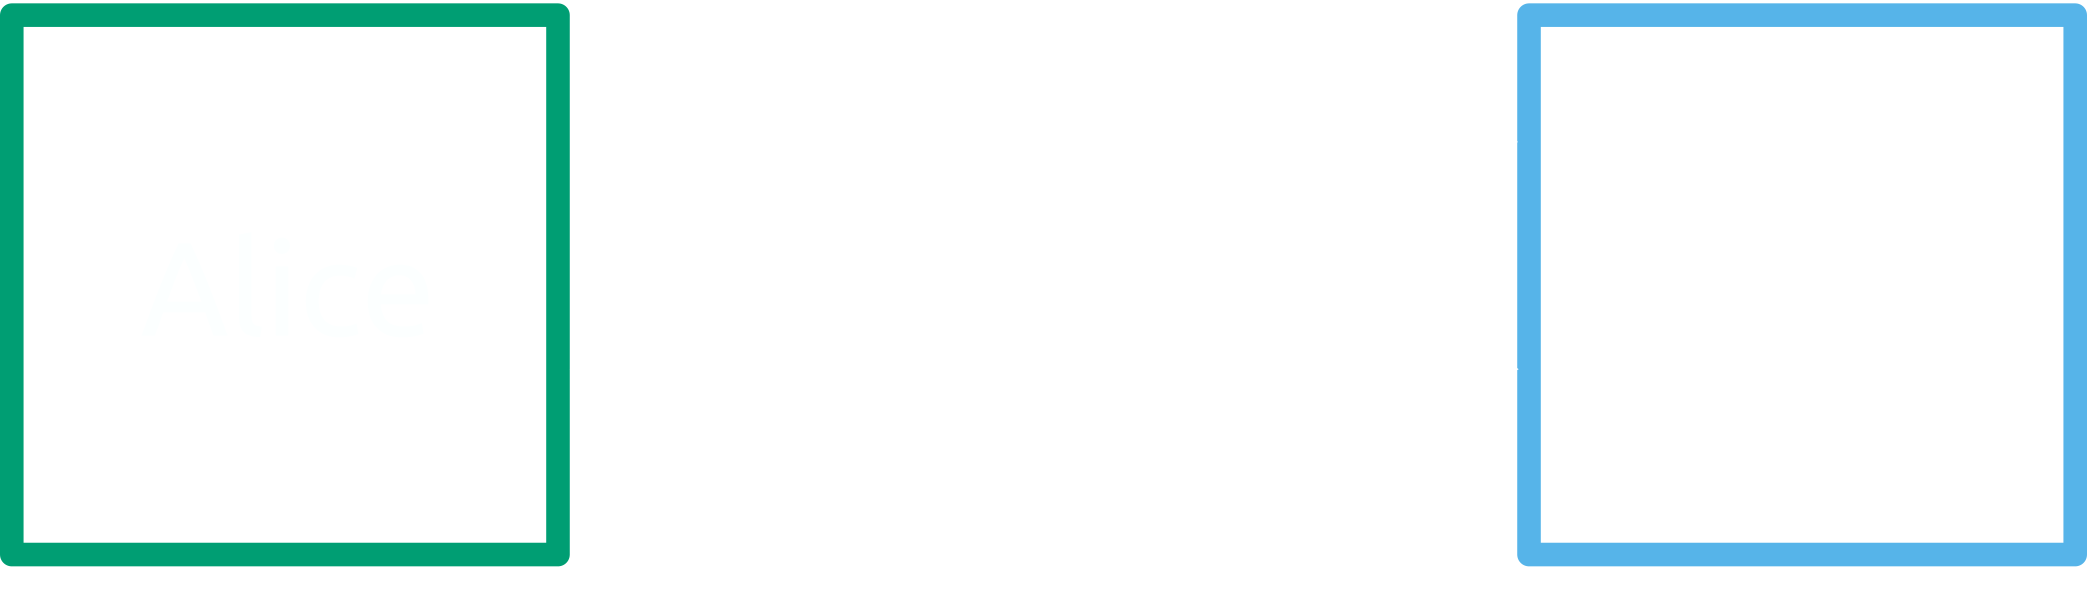
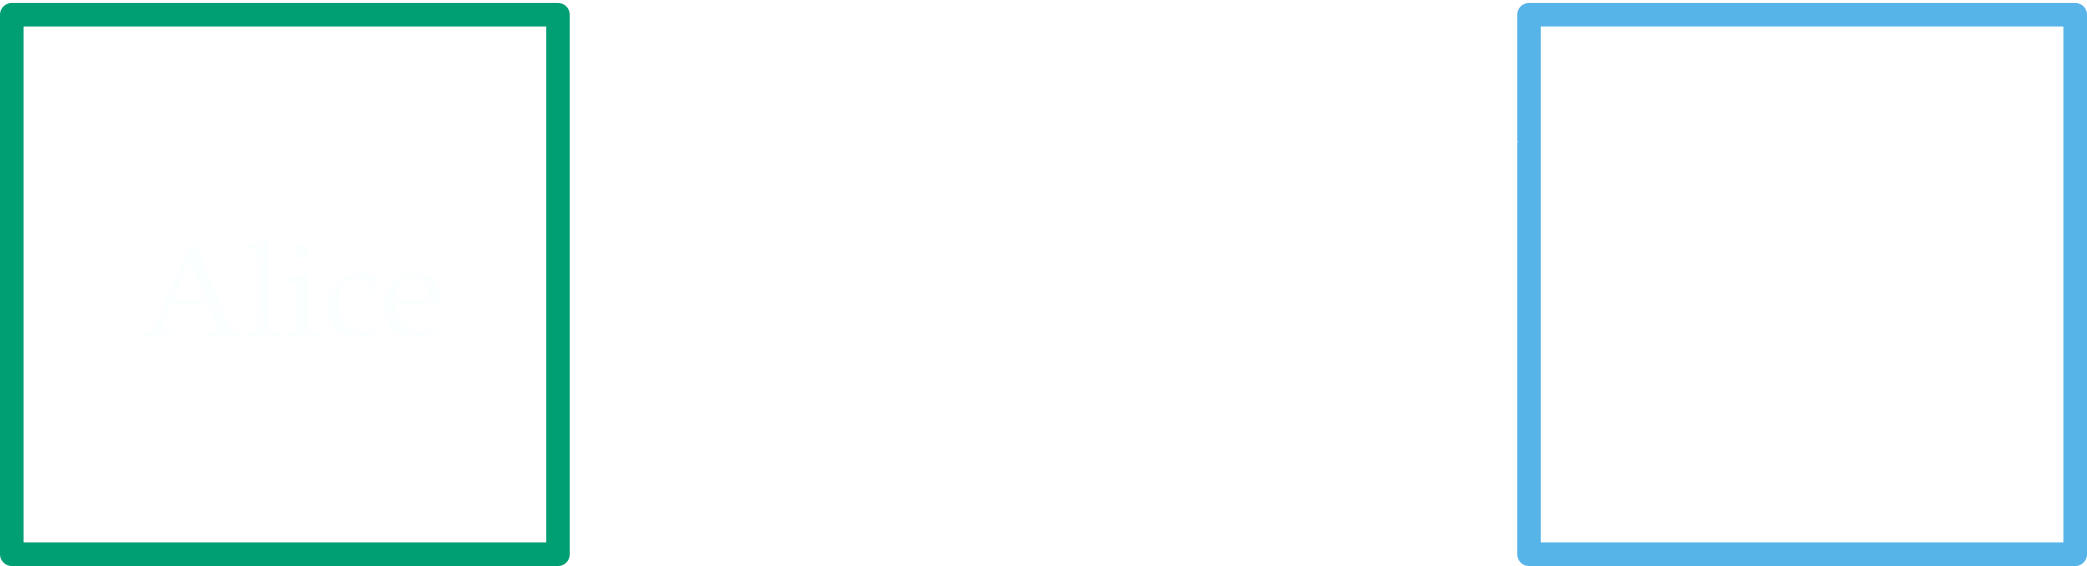
lato replacement and outline kinda established

diff --git a/research/talks/thesis_defense/index.html b/research/talks/thesis_defense/index.html
@@ -71,7 +71,17 @@
 					Regular text
 				</section>
 <!--==================================================================================-->
+				<section data-markdown>
+					Follow along at http://www.sckaiser.com/research/talks/thesis_defense/.
 
+					---
+
+					Control slides with ←, → and spacebar.
+					
+					Zoom in and out with shift-click.
+
+					<strong>F</strong> for full-screen.
+				</section>
 <!--==================================================================================-->
 				<section>
 					<h1 style="font-size: 175%; margin-bottom: 0;"> Quantum key distribution devices:</h1>
@@ -94,160 +104,77 @@
 <!--==================================================================================-->
 				<section>
 					<large>Information security is an integral part of modern society.</large>
-					<p class="fragment">It already horribly compromised.</p>
+					<p class="fragment">It <i> already</i> horribly compromised.</p>
 				</section>
 <!--==================================================================================-->
 				<section >
-					<h3>Where does quantum technology fit in?</h3> 
-					<p class="fragment"> Shor's algorithm </p>
-					<p class="fragment"> Post-quantum cryptography </p> 
-					<p class="fragment" style="color: #fb3550;"> <strong> Quantum key distribution</strong> </p>
-					
+					<h2>Where does quantum technology fit in?</h2> 
+					<span class="fragment"> Shor's algorithm,</span><span class="fragment"> Post-quantum cryptography,</span><p class="fragment" style="color: #fb3550;"> Quantum key distribution. </p>
 				</section>
 <!--==================================================================================-->
 				<section data-markdown>
 					<script type="text/template">
 						## Quantum Key Distribution (QKD) ##
 				
-						- Objective: share a secret key between Alice and Bob
+						Objective: share a secret key between Alice and Bob
 
-						<img src="figures/qkd-concept.png" alt="diagram for qkd concept" style="width: 80%;" />
+						<img src="figures/qkd-concept.png" alt="diagram for qkd concept" style="width: 70%;" />
 
 						Note:
 						Key EXPANSION protocol, relate to DH 
 					</script>	
 				</section>
-<!--==================================================================================-->
-				<section  data-markdown>
-					<script type="text/template">
-						### Example QKD protocol: BB84 ###
-						#### Quantum phase ####
-						<div class="two-col-container">
-							<div class="left-col" style="width: 60%">
-								![http://swissquantum.idquantique.com/](http://swissquantum.idquantique.com/IMG/jpg/bb84.jpg "BB84 diagram")
-						
-								[doi:10/3d6](http://doi.org/3d6)
-							</div>
-							<div class="right-col" style="width: 40%">
-								<ol>
-									<li>Alice randomly chooses basis and bit</li>
-									<li>Alice prepares state</li>
-									<li>Bob randomly chooses basis and measures</li>
-									<li>Repeat</li>
-								</ol>
 
-							</div>
-						</div>
-					</script>
-				</section>
-<!--==================================================================================-->
-				<section  data-markdown>
-					<script type="text/template">
-						### Example QKD protocol: BB84 ###
-						#### Classical phase ####
-						<div class="two-col-container">
-							<div class="left-col" style="width: 60%">
-								![http://swissquantum.idquantique.com/](http://swissquantum.idquantique.com/IMG/jpg/bb84.jpg "BB84 diagram")
-						
-								[doi:10/3d6](http://doi.org/3d6)
-							</div>
-							<div class="right-col" style="width: 40%">
-								<ol>
-									<li>Share basis choices</li>
-									<li>Error correction</li>
-									<li>Privacy amplification</li>
-									<li>Final key produced</li>
-								</ol>
-
-							</div>
-						</div>
-					</script>
-				</section>
 <!--==================================================================================-->
 				<section data-markdown>
 					<script type="text/template">
-						### QKD performance ###
+						## QKD performance ##
 				
-						- Security of transmission is tested with the quantum bit error rate:
-						`\[\sf{\text{QBER} = \frac{n_{\text{wrong}}}{n_{\text{wrong}}+n_{\text{right}}}}\]`	
-						- Required key generation threshold `$\sf{QBER \lesssim  10\%}$`
+						- Security of transmission is tested with the quantum bit error rate: `\[\text{QBER} = \frac{n_{\text{wrong}}}{n_{\text{wrong}}+n_{\text{right}}}\]`	
+						- Required key generation threshold `$\text{QBER}\lesssim  10\%$`
 						
 						Note:
 						Explain how bad QBER breaks security/threshold works
 					</script>	
 				</section>
+
 <!--==================================================================================-->
-				<section >	
-					<h3>Commercial QKD devices</h3>
-					<div class="two-col-container">
-						<div class="left-col">
-							<ul>
-								<li><a href="http://www.idquantique.com/">id Quantique</a></li>
-								<li><a href="http://www.quintessencelabs.com/">QuintessenceLabs</a></li>
-							</ul>
-						</div>	
-						<div class="right-col">
-							<ul>
-								<li><a href="http://www.magiqtech.com/Home.html">MagiQ</a></li>
-								<li><a href="http://www.sequrenet.com/">SeQureNet</a></li>
-							</ul>
-						</div>
-						<!-- <p>
-							Toshiba, Hewlett Packard, IBM, Mitsubishi, NEC, NTT, AIT	
-						</p> -->
-					</div>
-				
-					<img src="figures/idqfront.jpg" alt="id Quantique Clavis 2" style="width: 100%;" />
-				
+				<section>
+						<h2> Why don't we all have quantum keys? </h2>
+						<ol>
+						<li><p class="fragment"> Distance/Loss<!-- 307 km in fiber [doi:10/bdpg](http://doi.org/bdpg) --> </p></li>
+						<li><p class="fragment"> Infrastructure developments <!-- 307 km in fiber [doi:10/bdpg](http://doi.org/bdpg) --> </p></li>						   
+						<li><p class="fragment"> Realistic device security models 
+						   <!-- - Security proofs with side-channels [doi:10/dshjwp](http://doi.org/dshjwp) --></p></li>
+						 <ol>
 				</section>
-<!--==================================================================================-->
-<!--				<section  data-markdown data-background="http://ww1.prweb.com/prfiles/2010/05/18/2917774/hybridquantum.jpg" alt="id Quantique Clavis 2" data-background-size="500px">
-					<script type="text/template">
-						### Commercial QKD devices ###
-						<p>
-							<ul>
-								<li>id Quantique</li>
-								<li>Quintencence</li>
-								<li>MagiQ</li>
-								<li>SequreNet</li>
-							</ul>
-						</p>
-					</script>
-				</section>-->
+
 <!--==================================================================================-->
 				<section  data-markdown>
 					<script type="text/template">
-						## Challenges for practical QKD ##
-						- Distance/Loss 
-						   - *307 km in fibre* [doi:10/bdpg](http://doi.org/bdpg) 
-						   
-						- Realistic device security models 
-						   - *Security proofs with side-channels* [doi:10/dshjwp](http://doi.org/dshjwp)
-					</script>
-				</section>
-<!--==================================================================================-->
-				<section  data-markdown>
-					<script type="text/template">
-						### Solutions (?) for practical QKD ###
-						- Distance/Loss 
-						  - **Free-space/Space QKD** [doi:10/bdnw](http://doi.org/bdnw)
-						  - *GHz BB84 decoy state* [doi:10/dqdr8n](http://doi.org/dqdr8n)
-						- Realistic device security models
-						  - **Hardware certification and standards** [ETSI group](http://www.etsi.org/technologies-clusters/technologies/quantum-key-distribution)
-						Note:
-						How can standards inter-operate with security?
-					</script>
-				</section>
-<!--==================================================================================-->
-				<section  data-markdown>
-					<script type="text/template">
-						### Space QKD losses ###
+						### Long distance QKD losses ###
 						[doi:10/bdnw](http://doi.org/bdnw)
 
 						<a href="http://doi.org/bdnw">
 							<img src="figures/loss.png" style="width: 90%" alt="Space optical losses doi:10/bdnw">
 						</a>
 					</script>
+				</section>
+
+<!--==================================================================================-->
+				<section>
+						<h2> How to make them and how to break them </h2>
+						<ol>
+						<li><p class="fragment"> Distance &rarr; <span style="color: #fb3550;">Space QKD links</span></p></li>
+						<li><p class="fragment"> Infrastructure  &rarr; <span style="color: #fb3550;">Robust quantum optical components</span> </p></li>						   
+						<li><p class="fragment"> Security models &rarr; <span style="color: #fb3550;">Laser damage attack</span>
+						   <!-- - Security proofs with side-channels [doi:10/dshjwp](http://doi.org/dshjwp) --></p></li>
+						 <ol>
+				</section>
+<!--==================================================================================-->
+				<section>
+					<h1>Distance:</h1>
+					<h3>exchange key anywhere on earth</h3>
 				</section>
 <!--==================================================================================-->
 				<section  data-markdown>
@@ -273,6 +200,11 @@
 						<img src="figures/reciever_schematic.png" alt="Reciever payload schematic">
 						
 					</script>
+				</section>
+<!--==================================================================================-->
+				<section>
+					<h1 style="font-size: 280%">Infrastructure:</h1>
+					<h3>robust devices up to the task</h3>
 				</section>
 <!--==================================================================================-->
 				<section  data-markdown>
@@ -322,10 +254,12 @@
 
 					</script>
 				</section>
-<!--==================================================================================-->				
+<!--==================================================================================-->
 				<section data-background="http://cdn.gifbay.com/2013/02/how_keys_work-34063.gif">
-						<h2>Hacking QKD Hardware</h2>
+					<h1>Security:</h1>
+					<h3>ensuring device model integrity to attacks</h3>
 				</section>
+
 <!--==================================================================================-->
 				<section  data-markdown data-background="figures/hotel.png" data-background-size=110%>
 					<script type="text/template">
@@ -451,3 +385,95 @@
 
 	</body>
 </html>
+<!--==================================================================================-->
+<!-- 				<section  data-markdown>
+					<script type="text/template">
+						### Example QKD protocol: BB84 ###
+						#### Quantum phase ####
+						<div class="two-col-container">
+							<div class="left-col" style="width: 60%">
+								![http://swissquantum.idquantique.com/](http://swissquantum.idquantique.com/IMG/jpg/bb84.jpg "BB84 diagram")
+						
+								[doi:10/3d6](http://doi.org/3d6)
+							</div>
+							<div class="right-col" style="width: 40%">
+								<ol>
+									<li>Alice randomly chooses basis and bit</li>
+									<li>Alice prepares state</li>
+									<li>Bob randomly chooses basis and measures</li>
+									<li>Repeat</li>
+								</ol>
+
+							</div>
+						</div>
+					</script>
+				</section>
+==================================================================================
+				<section  data-markdown>
+					<script type="text/template">
+						### Example QKD protocol: BB84 ###
+						#### Classical phase ####
+						<div class="two-col-container">
+							<div class="left-col" style="width: 60%">
+								![http://swissquantum.idquantique.com/](http://swissquantum.idquantique.com/IMG/jpg/bb84.jpg "BB84 diagram")
+						
+								[doi:10/3d6](http://doi.org/3d6)
+							</div>
+							<div class="right-col" style="width: 40%">
+								<ol>
+									<li>Share basis choices</li>
+									<li>Error correction</li>
+									<li>Privacy amplification</li>
+									<li>Final key produced</li>
+								</ol>
+
+							</div>
+						</div>
+					</script>
+				</section> -->
+<!--==================================================================================-->
+<!--				<section  data-markdown data-background="http://ww1.prweb.com/prfiles/2010/05/18/2917774/hybridquantum.jpg" alt="id Quantique Clavis 2" data-background-size="500px">
+					<script type="text/template">
+						### Commercial QKD devices ###
+						<p>
+							<ul>
+								<li>id Quantique</li>
+								<li>Quintencence</li>
+								<li>MagiQ</li>
+								<li>SequreNet</li>
+							</ul>
+						</p>
+					</script>
+				</section>-->
+<!--==================================================================================-->
+<!-- 				<section  data-markdown>
+					<script type="text/template">
+						## Challenges for practical QKD ##
+						- Distance/Loss 
+						   - *307 km in fibre* [doi:10/bdpg](http://doi.org/bdpg) 
+						   
+						- Realistic device security models 
+						   - *Security proofs with side-channels* [doi:10/dshjwp](http://doi.org/dshjwp) 
+					</script>
+				</section> -->
+<!--==================================================================================-->
+<!-- 				<section >	
+					<h3>Commercial QKD devices</h3>
+					<div class="two-col-container">
+						<div class="left-col">
+							<ul>
+								<li><a href="http://www.idquantique.com/">id Quantique</a></li>
+								<li><a href="http://www.quintessencelabs.com/">QuintessenceLabs</a></li>
+							</ul>
+						</div>	
+						<div class="right-col">
+							<ul>
+								<li><a href="http://www.magiqtech.com/Home.html">MagiQ</a></li>
+								<li><a href="http://www.sequrenet.com/">SeQureNet</a></li>
+							</ul>
+						</div>
+					</div>
+				
+					<img src="figures/idqfront.jpg" alt="id Quantique Clavis 2" style="width: 100%;" />
+				
+				</section> -->

diff --git a/research/talks/thesis_defense/css/theme/blood.css b/research/talks/thesis_defense/css/theme/blood.css
@@ -10,7 +10,19 @@
  *
  */
 @import url(https://fonts.googleapis.com/css?family=Ubuntu:300,700,300italic,700italic);
-@import 'https://fonts.googleapis.com/css?family=Arimo|Droid+Sans|Hind|Noto+Sans|Oxygen|Raleway';
+@import 'https://fonts.googleapis.com/css?family=Lato';
+@import url("//hello.myfonts.net/count/28aa3d");
+
+
+@font-face {
+    font-family: 'GillSansMTStd-Medium';
+    src: url({{ 'font-gill-sans.eot' | asset_url }});
+    src: url({{ 'font-gill-sans.eot?#iefix' | asset_url }}) format('embedded-opentype'),
+         url({{ 'font-gill-sans.woff' | asset_url }}) format('woff'),
+         url({{ 'font-gill-sans.ttf' | asset_url }}) format('truetype');
+    font-weight: normal;
+    font-style: normal;
+}
 
 /*********************************************
  * GLOBAL STYLES
@@ -47,7 +59,7 @@ body {
 .reveal h6 {
   margin: 0 0 20px 0;
   color: #eee;
-  font-family: Gill Sans MT, "sans-serif";
+  font-family: Lato, "sans-serif";
   font-weight: normal;
   line-height: 1.2;
   letter-spacing: normal;
